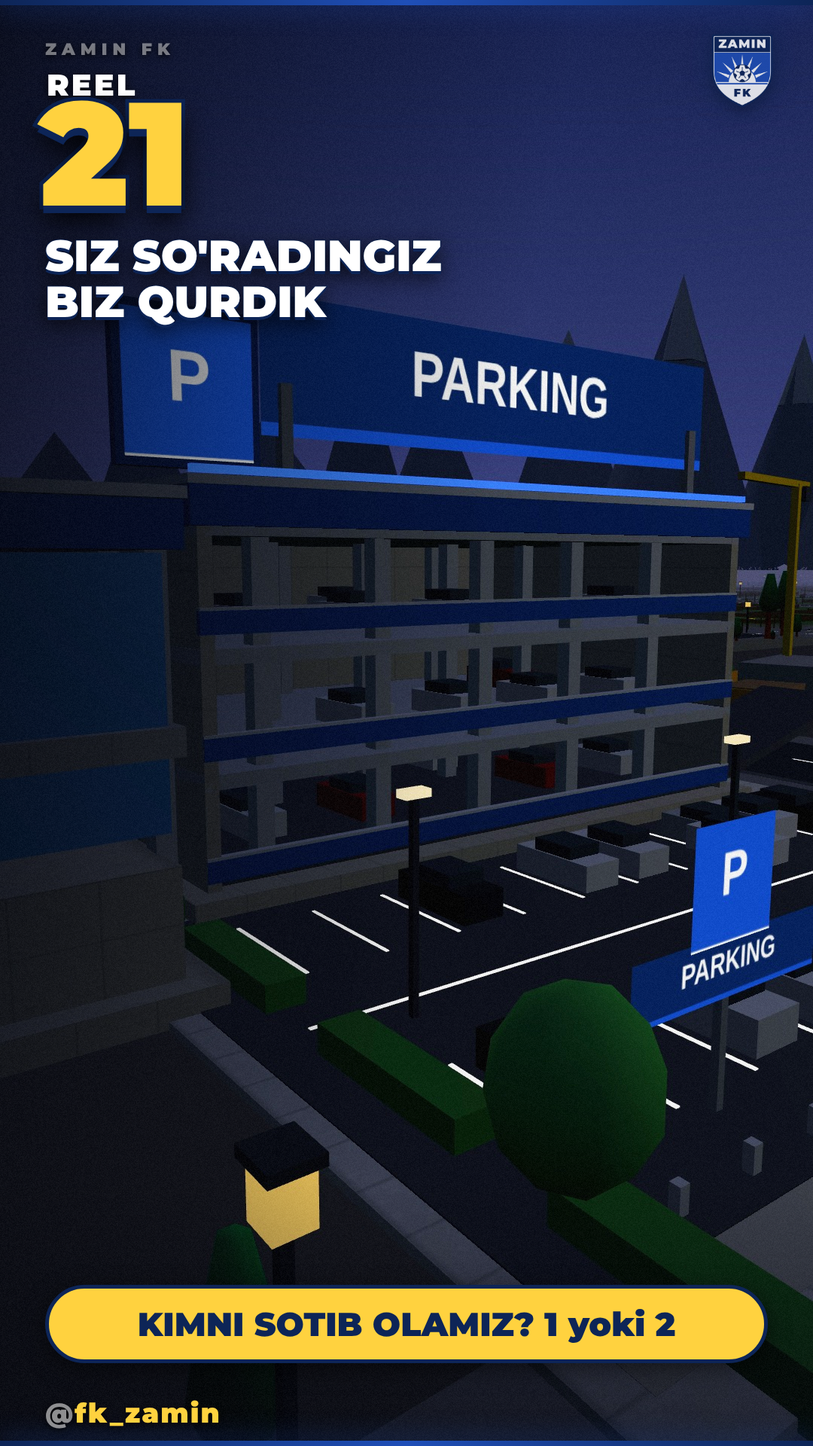
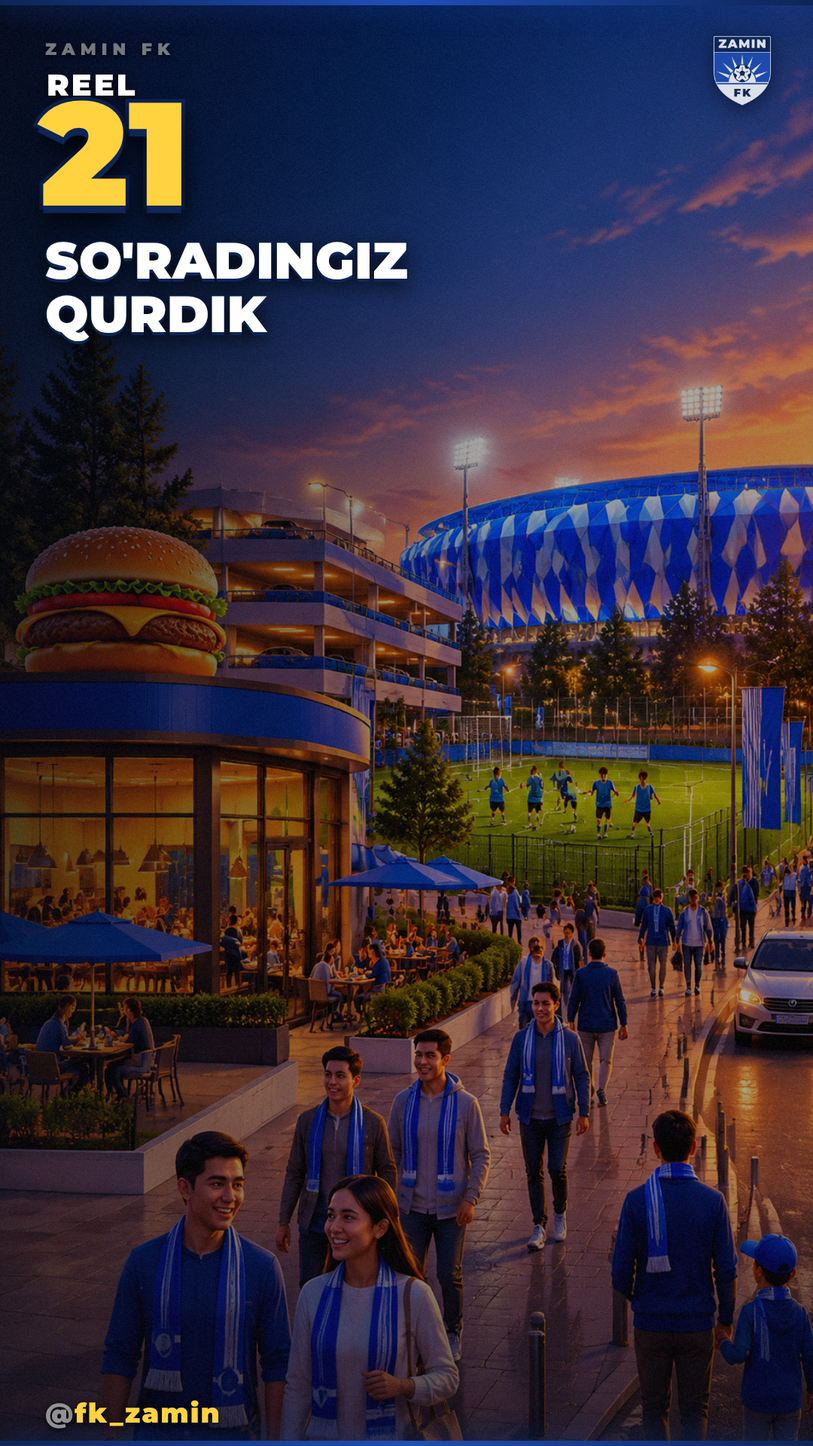
Reel 21 cover: Poyo scene in the house cover style
Claude-Session: https://claude.ai/code/session_017oAb5H7yE1Amr5Fk2jVtrU

diff --git a/ZAMIN_FK/covers/render_covers.js b/ZAMIN_FK/covers/render_covers.js
@@ -35,7 +35,7 @@ const COVERS=[
   {n:17, label:"REEL",  num:"17",   title:"MURABBIY\nE'LON",        accent:"#00C85A", bright:0.72},
   {n:18, label:"VIRAL", num:"🔥",   title:"SINOV\nJAMOASI",        accent:"#FF4500", bright:0.52},
   {n:19, label:"REEL",  num:"19",   title:"KUTILMAGAN\nG'ALABA",   accent:"#F87171", bright:0.65},
-  {n:21, label:"REEL",  num:"21",   title:"SIZ SO'RADINGIZ\nBIZ QURDIK", accent:"#FFD23F", bright:0.95, bg:HERE+"/../21_Reel_Siz_Soradingiz/assets/cover_bg.jpg", extra:"KIMNI SOTIB OLAMIZ?  1 yoki 2"},
+  {n:21, label:"REEL",  num:"21",   title:"SO'RADINGIZ\nQURDIK", accent:"#FFD23F", bright:0.66, bg:HERE+"/../21_Reel_Siz_Soradingiz/assets/cover_poyo.png"},
 ];
 
 function numSize(num){
